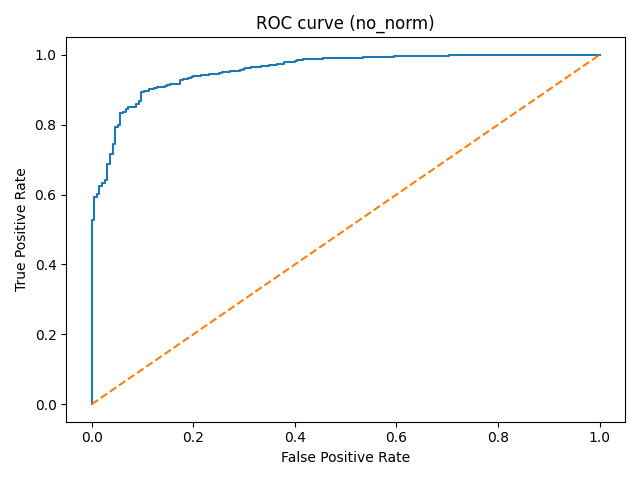
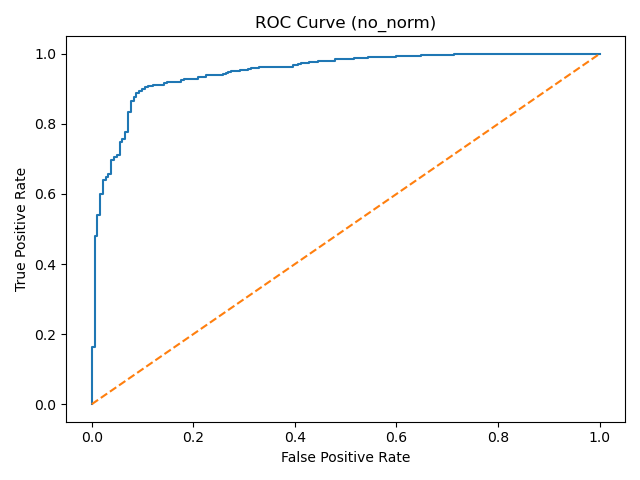
updates to graphs

diff --git a/draft.py b/draft.py
@@ -6,6 +6,9 @@ from sklearn.neural_network import MLPRegressor
 from sklearn.metrics import mean_squared_error, r2_score
 from sklearn.model_selection import train_test_split
 from sklearn.metrics import accuracy_score, roc_auc_score, roc_curve 
+from numpy import argmax
+from sklearn.preprocessing import LabelEncoder
+from sklearn.preprocessing import OneHotEncoder
 
 import numpy as np
 
@@ -13,7 +16,7 @@ import pandas as pd
 from pandas import DataFrame
 import matplotlib.pyplot as plt
 
-NUM_EXPERIMENTS = 30
+NUM_EXPERIMENTS = 20
 
 def scatter(df, feature, target):
     plt.figure()
@@ -42,7 +45,7 @@ def gen_plots(df):
     plt.savefig("heatmap.png")
     plt.close()
 
-    ringcorrs = df.drop(columns=["sex", "rings"]).corrwith(df["rings"])
+    ringcorrs = df.drop(columns=["rings"]).corrwith(df["rings"])
     max_corr = ringcorrs.idxmax()
     min_corr = ringcorrs.idxmin()
 
@@ -66,9 +69,9 @@ def scipy_linear_mod(x_train_real, x_test_real, y_train, y_test, transform, mode
     if transform == True:
         x_train = x_train_real.copy()
         x_test = x_test_real.copy()
-        transformer = MinMaxScaler().fit(x_train.iloc[:,1:])
-        x_train.iloc[:, 1:] = transformer.transform(x_train.iloc[:, 1:])
-        x_test.iloc[:, 1:] = transformer.transform(x_test.iloc[:, 1:])
+        transformer = MinMaxScaler().fit(x_train.iloc[:,3:])
+        x_train.iloc[:, 3:] = transformer.transform(x_train.iloc[:, 3:])
+        x_test.iloc[:, 3:] = transformer.transform(x_test.iloc[:, 3:])
     else:
         x_train = x_train_real
         x_test = x_test_real
@@ -136,7 +139,7 @@ def scipy_linear_mod(x_train_real, x_test_real, y_train, y_test, transform, mode
         plt.plot(fpr, tpr); plt.plot([0,1], [0,1], linestyle="--")
         plt.xlabel("False Positive Rate")
         plt.ylabel("True Positive Rate")
-        plt.title(f"ROC curve ({type_str})")
+        plt.title(f"ROC Curve ({type_str})")
         plt.tight_layout()
         plt.savefig(f"logistic roc {type_str}.png")
         plt.close()
@@ -147,9 +150,9 @@ def selected(x_train_real, x_test_real, y_train, y_test, transform, model, selec
     if transform == True:
         x_train = x_train_real.copy()
         x_test = x_test_real.copy()
-        transformer = MinMaxScaler().fit(x_train.iloc[:,1:])
-        x_train.iloc[:, 1:] = transformer.transform(x_train.iloc[:, 1:])
-        x_test.iloc[:, 1:] = transformer.transform(x_test.iloc[:, 1:])
+        transformer = MinMaxScaler().fit(x_train.iloc[:, 3:])
+        x_train.iloc[:, 3:] = transformer.transform(x_train.iloc[:, 3:])
+        x_test.iloc[:, 3:] = transformer.transform(x_test.iloc[:, 3:])
     else:
         x_train = x_train_real
         x_test = x_test_real
@@ -173,7 +176,7 @@ def selected(x_train_real, x_test_real, y_train, y_test, transform, model, selec
         plt.xlabel("True rings")
         plt.ylabel("Predicted rings")
         plt.title(f"Linear: y_true vs y_pred ({type_str}) {str(selected_feats)}")
-        plt.savefig(f"linreg_scatter_{type_str}_selected_Features.png")
+        plt.savefig(f"linreg_scatter_{type_str}_selected_features.png")
         plt.close()
 
         # residuals histogram
@@ -228,9 +231,9 @@ def neural(x_train_real, x_test_real, y_train, y_test, transform, model):
     if transform == True:
         x_train = x_train_real.copy()
         x_test = x_test_real.copy()
-        transformer = MinMaxScaler().fit(x_train.iloc[:,1:])
-        x_train.iloc[:, 1:] = transformer.transform(x_train.iloc[:, 1:])
-        x_test.iloc[:, 1:] = transformer.transform(x_test.iloc[:, 1:])
+        transformer = MinMaxScaler().fit(x_train.iloc[:, 3:])
+        x_train.iloc[:, 3:] = transformer.transform(x_train.iloc[:, 3:])
+        x_test.iloc[:, 3:] = transformer.transform(x_test.iloc[:, 3:])
     else:
         x_train = x_train_real
         x_test = x_test_real
@@ -238,7 +241,7 @@ def neural(x_train_real, x_test_real, y_train, y_test, transform, model):
     type_str = "norm" if transform else "no_norm"
 
     if model == 0:
-        mlp = MLPRegressor(hidden_layer_sizes=(10, 20), activation='identity', solver='sgd', learning_rate_init = 0.01, max_iter=1000, random_state = 1)
+        mlp = MLPRegressor(hidden_layer_sizes=(16, 8), activation='identity', solver='sgd', learning_rate_init = 0.01, max_iter=1000, random_state = 1)
         mlp.fit(x_train, y_train)
 
         y_pred = mlp.predict(x_test)
@@ -272,9 +275,9 @@ def neural(x_train_real, x_test_real, y_train, y_test, transform, model):
         plt.plot(fpr, tpr); plt.plot([0,1], [0,1], linestyle="--")
         plt.xlabel("False Positive Rate")
         plt.ylabel("True Positive Rate")
-        plt.title(f"ROC curve ({type_str}) {str(Neural Network Selected Features)}")
+        plt.title(f"ROC curve Neural Network ({type_str})")
         plt.tight_layout()
-        plt.savefig(f"logistic roc {type_str} Neural Network Selected Features.png")
+        plt.savefig(f"logistic roc Neural Network {type_str}.png")
         plt.close()
 
         return acc, auc, acc_train, auc_train
@@ -283,9 +286,9 @@ def neural_selected(x_train_real, x_test_real, y_train, y_test, transform, model
     if transform == True:
         x_train = x_train_real.copy()
         x_test = x_test_real.copy()
-        transformer = MinMaxScaler().fit(x_train.iloc[:,1:])
-        x_train.iloc[:, 1:] = transformer.transform(x_train.iloc[:, 1:])
-        x_test.iloc[:, 1:] = transformer.transform(x_test.iloc[:, 1:])
+        transformer = MinMaxScaler().fit(x_train.iloc[:, 3:])
+        x_train.iloc[:, 3:] = transformer.transform(x_train.iloc[:, 3:])
+        x_test.iloc[:, 3:] = transformer.transform(x_test.iloc[:, 3:])
     else:
         x_train = x_train_real
         x_test = x_test_real
@@ -293,7 +296,7 @@ def neural_selected(x_train_real, x_test_real, y_train, y_test, transform, model
     type_str = "norm" if transform else "no_norm"
 
     if model == 0:
-        mlp = MLPRegressor(hidden_layer_sizes=(10, 20), activation='identity', solver='sgd', learning_rate_init = 0.01, max_iter=1000, random_state = 1)
+        mlp = MLPRegressor(hidden_layer_sizes=(16, 8), activation='identity', solver='sgd', learning_rate_init = 0.01, max_iter=1000, random_state = 1)
         mlp.fit(x_train[selected_feats], y_train)
 
         y_pred = mlp.predict(x_test[selected_feats])
@@ -327,19 +330,33 @@ def neural_selected(x_train_real, x_test_real, y_train, y_test, transform, model
         plt.plot(fpr, tpr); plt.plot([0,1], [0,1], linestyle="--")
         plt.xlabel("False Positive Rate")
         plt.ylabel("True Positive Rate")
-        plt.title(f"ROC curve ({type_str}) {str(selected_feats)}")
+        plt.title(f"ROC curve Neural Network ({type_str}) {str(selected_feats)}")
         plt.tight_layout()
-        plt.savefig(f"logistic roc {type_str} selected features.png")
+        plt.savefig(f"logistic roc Neural Network {type_str} Selected Features.png")
         plt.close()
 
         return acc, auc, acc_train, auc_train
 
 def process_data(df):
-    df.iloc[:, 0] = df.iloc[:, 0].replace({"M": 0, "F": 1, "I": 2})
+    values = np.array(df.iloc[:, 0])
+    # integer encode
+    label_encoder = LabelEncoder()
+    integer_encoded = label_encoder.fit_transform(values)
+    print(integer_encoded)
+    # binary encode
+    onehot_encoder = OneHotEncoder(sparse_output=False)
+    integer_encoded = integer_encoded.reshape(len(integer_encoded), 1)
+    onehot_encoded = onehot_encoder.fit_transform(integer_encoded)
+    onehot_encoded = pd.DataFrame(onehot_encoded, columns = ["F", "I", "M"])
+    print(onehot_encoded)
+    df = df.drop(columns = "sex")
+    df = pd.concat([onehot_encoded, df], axis=1)
+
+    return df
 
 def main():
     df = pd.read_csv('abalone.data', header=None, names=["sex", "length", "diameter", "height", "whole_weight", "shucked_weight", "viscera_weight", "shell_weight", "rings"])
-    process_data(df)
+    df = process_data(df)
     selected_features = gen_plots(df)
     print(df)
 
@@ -373,16 +390,15 @@ def main():
     acc_nn_norm = np.zeros(NUM_EXPERIMENTS)
     auc_nn_norm = np.zeros(NUM_EXPERIMENTS)
 
-    rmse_sel = np.zeros(NUM_EXPERIMENTS)
-    rsquared_sel = np.zeros(NUM_EXPERIMENTS)
-    acc_sel = np.zeros(NUM_EXPERIMENTS)
-    auc_sel = np.zeros(NUM_EXPERIMENTS)
+    rmse_nn_sel = np.zeros(NUM_EXPERIMENTS)
+    rsquared_nn_sel = np.zeros(NUM_EXPERIMENTS)
+    acc_nn_sel = np.zeros(NUM_EXPERIMENTS)
+    auc_nn_sel = np.zeros(NUM_EXPERIMENTS)
 
     rmse_nn_sel_norm = np.zeros(NUM_EXPERIMENTS)
     rsquared_nn_sel_norm = np.zeros(NUM_EXPERIMENTS)
     acc_nn_sel_norm = np.zeros(NUM_EXPERIMENTS)
     auc_nn_sel_norm = np.zeros(NUM_EXPERIMENTS)
-
 
 
     rmse_tr = np.zeros(NUM_EXPERIMENTS)
@@ -399,11 +415,33 @@ def main():
     rsquared_sel_tr = np.zeros(NUM_EXPERIMENTS)
     acc_sel_tr = np.zeros(NUM_EXPERIMENTS)
     auc_sel_tr = np.zeros(NUM_EXPERIMENTS)
+    
+    rmse_sel_norm_tr = np.zeros(NUM_EXPERIMENTS)
+    rsquared_sel_norm_tr = np.zeros(NUM_EXPERIMENTS)
+    acc_sel_norm_tr = np.zeros(NUM_EXPERIMENTS)
+    auc_sel_norm_tr = np.zeros(NUM_EXPERIMENTS)
 
     rmse_nn_tr = np.zeros(NUM_EXPERIMENTS)
     rsquared_nn_tr = np.zeros(NUM_EXPERIMENTS)
+    acc_nn_tr = np.zeros(NUM_EXPERIMENTS)
+    auc_nn_tr = np.zeros(NUM_EXPERIMENTS)
 
-    
+    rmse_nn_norm_tr = np.zeros(NUM_EXPERIMENTS)
+    rsquared_nn_norm_tr = np.zeros(NUM_EXPERIMENTS)
+    acc_nn_norm_tr = np.zeros(NUM_EXPERIMENTS)
+    auc_nn_norm_tr = np.zeros(NUM_EXPERIMENTS)
+
+    rmse_nn_sel_tr = np.zeros(NUM_EXPERIMENTS)
+    rsquared_nn_sel_tr = np.zeros(NUM_EXPERIMENTS)
+    acc_nn_sel_tr = np.zeros(NUM_EXPERIMENTS)
+    auc_nn_sel_tr = np.zeros(NUM_EXPERIMENTS)
+
+    rmse_nn_sel_norm_tr = np.zeros(NUM_EXPERIMENTS)
+    rsquared_nn_sel_norm_tr = np.zeros(NUM_EXPERIMENTS)
+    acc_nn_sel_norm_tr = np.zeros(NUM_EXPERIMENTS)
+    auc_nn_sel_norm_tr = np.zeros(NUM_EXPERIMENTS)
+
+
     data_inputx = df.iloc[:, 0:-1]
     data_inputy = df.iloc[:, -1]
     print(data_inputx)
@@ -442,68 +480,97 @@ def main():
         rmse_nn_norm[i], rsquared_nn_norm[i], acc_nn_norm[i], auc_nn_norm[i] = rmse_te, r2_te, acc_te, auc_te
         rmse_nn_norm_tr[i], rsquared_nn_norm_tr[i], acc_nn_norm_tr[i], auc_nn_norm_tr[i] = rmse_tr_i, r2_tr_i, acc_tr_i, auc_tr_i
 
-        rmse_te, r2_te, rmse_tr_i, r2_tr_i = selected(x_train, x_test, y_train, y_test, False, 0, selected_features)
-        acc_te, auc_te, acc_tr_i, auc_tr_i = selected(x_train, x_test, y_train, y_test, False, 1, selected_features)
-        rmse_nn_sel[i], rsquared_nn_sel[i], acc_sel[i], auc_sel[i] = rmse_te, r2_te, acc_te, auc_te
+        rmse_te, r2_te, rmse_tr_i, r2_tr_i = neural_selected(x_train, x_test, y_train, y_test, False, 0, selected_features)
+        acc_te, auc_te, acc_tr_i, auc_tr_i = neural_selected(x_train, x_test, y_train, y_test, False, 1, selected_features)
+        rmse_nn_sel[i], rsquared_nn_sel[i], acc_nn_sel[i], auc_nn_sel[i] = rmse_te, r2_te, acc_te, auc_te
         rmse_nn_sel_tr[i], rsquared_nn_sel_tr[i], acc_nn_sel_tr[i], auc_nn_sel_tr[i] = rmse_tr_i, r2_tr_i, acc_tr_i, auc_tr_i
 
         rmse_te, r2_te, rmse_tr_i, r2_tr_i = neural_selected(x_train, x_test, y_train, y_test, True, 0, selected_features)
-        acc_te, auc_te, acc_tr_i, auc_tr_i = selected(x_train, x_test, y_train, y_test, True, 1, selected_features)
+        acc_te, auc_te, acc_tr_i, auc_tr_i = neural_selected(x_train, x_test, y_train, y_test, True, 1, selected_features)
         rmse_nn_sel_norm[i], rsquared_nn_sel_norm[i], acc_nn_sel_norm[i], auc_nn_sel_norm[i] = rmse_te, r2_te, acc_te, auc_te
         rmse_nn_sel_norm_tr[i], rsquared_nn_sel_norm_tr[i], acc_nn_sel_norm_tr[i], auc_nn_sel_norm_tr[i] = rmse_tr_i, r2_tr_i, acc_tr_i, auc_tr_i
 
+    print(f"RMSE no norm Mean: {rmse.mean():.3f}, with norm: {rmse_norm.mean():.3f}")
+    print(f"RMSE no norm SD: {rmse.std():.3f}, with norm: {rmse_norm.std():.3f}")
+    print(f"Rsquared no norm Mean: {rsquared.mean():.3f}, with norm: {rsquared_norm.mean():.3f}")
+    print(f"Rsquared no norm SD: {rsquared.std():.3f}, with norm: {rsquared_norm.std():.3f}")
 
-
-    print(f"RMSE no norm Mean: {rmse.mean()}, with norm: {rmse_norm.mean()}")
-    print(f"RMSE no norm SD: {rmse.std()}, with norm: {rmse_norm.std()}")
-    print(f"Rsquared no norm Mean: {rsquared.mean()}, with norm: {rsquared_norm.mean()}")
-    print(f"Rsquared no norm SD: {rsquared.std()}, with norm: {rsquared_norm.std()}")
-
-    print(f"Accuracy no norm Mean: {acc.mean()}, with norm: {acc_norm.mean()}")
-    print(f"Accuracy no norm SD: {acc.std()} with norm: {acc_norm.std()}")
-    print(f"AUC no norm Mean: {auc.mean()}, with norm: {auc_norm.mean()}")
-    print(f"AUC no norm SD: {auc.std()} with norm: {auc_norm.std()}")
+    print(f"Accuracy no norm Mean: {acc.mean():.3f}, with norm: {acc_norm.mean():.3f}")
+    print(f"Accuracy no norm SD: {acc.std():.3f} with norm: {acc_norm.std():.3f}")
+    print(f"AUC no norm Mean: {auc.mean():.3f}, with norm: {auc_norm.mean():.3f}")
+    print(f"AUC no norm SD: {auc.std():.3f} with norm: {auc_norm.std():.3f}")
     
-    print(f"RMSE of Selected Features no norm Mean: {rmse_sel.mean()}, with norm: {rmse_sel_norm.mean()}")
-    print(f"RMSE of Selected Features no norm SD: {rmse_sel.std()}, with norm: {rmse_sel_norm.std()}")
-    print(f"Rsquared of Selected Features no norm Mean: {rsquared_sel.mean()}, with norm: {rsquared_sel_norm.mean()}")
-    print(f"Rsquared of Selected Features no norm SD: {rsquared_sel.std()}, with norm: {rsquared_sel_norm.std()}")
+    print(f"RMSE of Selected Features no norm Mean: {rmse_sel.mean():.3f}, with norm: {rmse_sel_norm.mean():.3f}")
+    print(f"RMSE of Selected Features no norm SD: {rmse_sel.std():.3f}, with norm: {rmse_sel_norm.std():.3f}")
+    print(f"Rsquared of Selected Features no norm Mean: {rsquared_sel.mean():.3f}, with norm: {rsquared_sel_norm.mean():.3f}")
+    print(f"Rsquared of Selected Features no norm SD: {rsquared_sel.std():.3f}, with norm: {rsquared_sel_norm.std():.3f}")
 
-    print(f"Accuracy of Selected Features Mean: {acc_sel.mean()}")
-    print(f"Accuracy of Selected Features SD: {acc_sel.std()}")
-    print(f"AUC of Selected Features Mean: {auc_sel.mean()}")
-    print(f"AUC of Selected Features SD: {auc_sel.std()}")
+    print(f"Accuracy of Selected Features no norm Mean: {acc_sel.mean():.3f}, with norm: {acc_sel_norm.mean():.3f}")
+    print(f"Accuracy of Selected Features no norm SD: {acc_sel.std():.3f}, with norm: {acc_sel_norm.std():.3f}")
+    print(f"AUC of Selected Features no norm Mean: {auc_sel.mean():.3f}, with norm: {auc_sel_norm.mean():.3f}")
+    print(f"AUC of Selected Features no norm SD: {auc_sel.std():.3f}, with norm: {auc_sel_norm.std():.3f}")
     
-    print(f"RMSE of Neural Network Mean: {rmse_nn.mean()}")
-    print(f"RMSE of Neural Network SD: {rmse_nn.std()}")
-    print(f"Rsquared of Neural Network Mean: {rsquared_nn.mean()}")
-    print(f"Rsquared of Neural Network SD: {rsquared_nn.std()}")
+    print(f"RMSE of Neural Network no norm Mean: {rmse_nn.mean():.3f}, with norm: {rmse_nn_norm.mean():.3f}")
+    print(f"RMSE of Neural Network no norm SD: {rmse_nn.std():.3f}, with norm: {rmse_nn_norm.std():.3f}")
+    print(f"Rsquared of Neural Network no norm Mean: {rsquared_nn.mean():.3f}, with norm: {rsquared_nn_norm.mean():.3f}")
+    print(f"Rsquared of Neural Network no norm SD: {rsquared_nn.std():.3f}, with norm: {rsquared_nn_norm.std():.3f}")
+ 
+    print(f"Accuracy of Neural Network no norm Mean: {acc_nn.mean():.3f}, with norm: {acc_nn_norm.mean():.3f}")
+    print(f"Accuracy of Neural Network no norm SD: {acc_nn.std():.3f}, with norm: {acc_nn_norm.std():.3f}")
+    print(f"AUC of Neural Network no norm Mean: {auc_nn.mean():.3f}, with norm: {auc_nn_norm.mean():.3f}")
+    print(f"AUC of Neural Network no norm SD: {auc_nn.std():.3f}, with norm: {auc_nn_norm.std():.3f}")
+ 
+    print(f"RMSE of Neural Network Selected Features no norm Mean: {rmse_nn_sel.mean():.3f}, with norm: {rmse_nn_sel_norm.mean():.3f}")
+    print(f"RMSE of Neural Network Selected Features no norm SD: {rmse_nn_sel.std():.3f}, with norm: {rmse_nn_sel_norm.std():.3f}")
+    print(f"Rsquared of Neural Selected Features Network no norm Mean: {rsquared_nn_sel.mean():.3f}, with norm: {rsquared_nn_sel_norm.mean():.3f}")
+    print(f"Rsquared of Neural Network Selected Features no norm SD: {rsquared_nn_sel.std():.3f}, with norm: {rsquared_nn_sel_norm.std():.3f}")
 
-    print(f"TRAIN RMSE no norm Mean: {rmse_tr.mean()}, with norm: {rmse_norm_tr.mean()}")
-    print(f"TRAIN RMSE no norm SD: {rmse_tr.std()}, with norm: {rmse_norm_tr.std()}")
-    print(f"TRAIN Rsquared no norm Mean: {rsquared_tr.mean()}, with norm: {rsquared_norm_tr.mean()}")
-    print(f"TRAIN Rsquared no norm SD: {rsquared_tr.std()}, with norm: {rsquared_norm_tr.std()}")
+    print(f"Accuracy of Neural Network Selected Features no norm Mean: {acc_nn_sel.mean():.3f}, with norm: {acc_nn_sel_norm.mean():.3f}")
+    print(f"Accuracy of Neural Network Selected Features no norm SD: {acc_nn_sel.std():.3f}, with norm: {acc_nn_sel_norm.std():.3f}")
+    print(f"AUC of Neural Network Selected Features no norm Mean: {auc_nn_sel.mean():.3f}, with norm: {auc_nn_sel_norm.mean():.3f}")
+    print(f"AUC of Neural Network Selected Features no norm SD: {auc_nn_sel.std():.3f}, with norm: {auc_nn_sel_norm.std():.3f}")
+ 
 
-    print(f"TRAIN Accuracy no norm Mean: {acc_tr.mean()}, with norm: {acc_norm_tr.mean()}")
-    print(f"TRAIN Accuracy no norm SD: {acc_tr.std()} with norm: {acc_norm_tr.std()}")
-    print(f"TRAIN AUC no norm Mean: {auc_tr.mean()}, with norm: {auc_norm_tr.mean()}")
-    print(f"TRAIN AUC no norm SD: {auc_tr.std()} with norm: {auc_norm_tr.std()}")
+    print(f"TRAIN RMSE no norm Mean: {rmse_tr.mean():.3f}, with norm: {rmse_norm_tr.mean():.3f}")
+    print(f"TRAIN RMSE no norm SD: {rmse_tr.std():.3f}, with norm: {rmse_norm_tr.std():.3f}")
+    print(f"TRAIN Rsquared no norm Mean: {rsquared_tr.mean():.3f}, with norm: {rsquared_norm_tr.mean():.3f}")
+    print(f"TRAIN Rsquared no norm SD: {rsquared_tr.std():.3f}, with norm: {rsquared_norm_tr.std():.3f}")
 
-    print(f"TRAIN RMSE of Selected Features Mean: {rmse_sel_tr.mean()}")
-    print(f"TRAIN RMSE of Selected Features SD: {rmse_sel_tr.std()}")
-    print(f"TRAIN Rsquared of Selected Features Mean: {rsquared_sel_tr.mean()}")
-    print(f"TRAIN Rsquared of Selected Features SD: {rsquared_sel_tr.std()}")
+    print(f"TRAIN Accuracy no norm Mean: {acc_tr.mean():.3f}, with norm: {acc_norm_tr.mean():.3f}")
+    print(f"TRAIN Accuracy no norm SD: {acc_tr.std():.3f} with norm: {acc_norm_tr.std():.3f}")
+    print(f"TRAIN AUC no norm Mean: {auc_tr.mean():.3f}, with norm: {auc_norm_tr.mean():.3f}")
+    print(f"TRAIN AUC no norm SD: {auc_tr.std():.3f} with norm: {auc_norm_tr.std():.3f}")
 
-    print(f"TRAIN Accuracy of Selected Features Mean: {acc_sel_tr.mean()}")
-    print(f"TRAIN Accuracy of Selected Features SD: {acc_sel_tr.std()}")
-    print(f"TRAIN AUC of Selected Features Mean: {auc_sel_tr.mean()}")
-    print(f"TRAIN AUC of Selected Features SD: {auc_sel_tr.std()}")
+    print(f"TRAIN RMSE of Selected Features no norm Mean: {rmse_sel_tr.mean():.3f}, with norm: {rmse_sel_norm_tr.mean():.3f}")
+    print(f"TRAIN RMSE of Selected Features no norm SD: {rmse_sel_tr.std():.3f}, with norm: {rmse_sel_norm_tr.std():.3f}")
+    print(f"TRAIN Rsquared of Selected Features no norm Mean: {rsquared_sel_tr.mean():.3f}, with norm: {rsquared_sel_norm_tr.mean():.3f}")
+    print(f"TRAIN Rsquared of Selected Features no norm SD: {rsquared_sel_tr.std():.3f}, with norm: {rsquared_sel_norm_tr.std():.3f}")
 
-    print(f"TRAIN RMSE of Neural Network Mean: {rmse_nn_tr.mean()}")
-    print(f"TRAIN RMSE of Neural Network SD: {rmse_nn_tr.std()}")
-    print(f"TRAIN Rsquared of Neural Network Mean: {rsquared_nn_tr.mean()}")
-    print(f"TRAIN Rsquared of Neural Network SD: {rsquared_nn_tr.std()}")
+    print(f"TRAIN Accuracy of Selected Features no norm Mean: {acc_sel_tr.mean():.3f}, with norm: {acc_sel_norm_tr.mean():.3f}")
+    print(f"TRAIN Accuracy of Selected Features no norm SD: {acc_sel_tr.std():.3f}, with norm: {acc_sel_norm_tr.std():.3f}")
+    print(f"TRAIN AUC of Selected Features no norm Mean: {auc_sel_tr.mean():.3f}, with norm: {auc_sel_norm_tr.mean():.3f}")
+    print(f"TRAIN AUC of Selected Features no norm SD: {auc_sel_tr.std():.3f}, with norm: {auc_sel_norm_tr.std():.3f}")
 
+    print(f"TRAIN RMSE of Neural Network Mean: {rmse_nn_tr.mean():.3f}, with norm: {rmse_nn_norm_tr.mean():.3f}")
+    print(f"TRAIN RMSE of Neural Network SD: {rmse_nn_tr.std():.3f}, with norm: {rmse_nn_norm_tr.std():.3f}")
+    print(f"TRAIN Rsquared of Neural Network Mean: {rsquared_nn_tr.mean():.3f}, with norm: {rsquared_nn_norm_tr.mean():.3f}")
+    print(f"TRAIN Rsquared of Neural Network SD: {rsquared_nn_tr.std():.3f}, with norm: {rsquared_nn_norm_tr.std():.3f}")
+
+    print(f"TRAIN Accuracy of Neural Network no norm Mean: {acc_nn_tr.mean():.3f}, with norm: {acc_nn_norm_tr.mean():.3f}")
+    print(f"TRAIN Accuracy of Neural Network no norm SD: {acc_nn_tr.std():.3f}, with norm: {acc_nn_norm_tr.std():.3f}")
+    print(f"TRAIN AUC of Neural Network no norm Mean: {auc_nn_tr.mean():.3f}, with norm: {auc_nn_norm_tr.mean():.3f}")
+    print(f"TRAIN AUC of Neural Network no norm SD: {auc_nn_tr.std():.3f}, with norm: {auc_nn_norm_tr.std():.3f}")
+ 
+    print(f"TRAIN RMSE of Neural Network Selected Features no norm Mean: {rmse_nn_sel_tr.mean():.3f}, with norm: {rmse_nn_sel_norm_tr.mean():.3f}")
+    print(f"TRAIN RMSE of Neural Network Selected Features no norm SD: {rmse_nn_sel_tr.std():.3f}, with norm: {rmse_nn_sel_norm_tr.std():.3f}")
+    print(f"TRAIN Rsquared of Neural Selected Features Network no norm Mean: {rsquared_nn_sel_tr.mean():.3f}, with norm: {rsquared_nn_sel_norm_tr.mean():.3f}")
+    print(f"TRAIN Rsquared of Neural Network Selected Features no norm SD: {rsquared_nn_sel_tr.std():.3f}, with norm: {rsquared_nn_sel_norm_tr.std():.3f}")
+   
+    print(f"TRAIN Accuracy of Neural Network Selected Features no norm Mean: {acc_nn_sel_tr.mean():.3f}, with norm: {acc_nn_sel_norm_tr.mean():.3f}")
+    print(f"TRAIN Accuracy of Neural Network Selected Features no norm SD: {acc_nn_sel_tr.std():.3f}, with norm: {acc_nn_sel_norm_tr.std():.3f}")
+    print(f"TRAIN AUC of Neural Network Selected Features no norm Mean: {auc_nn_sel_tr.mean():.3f}, with norm: {auc_nn_sel_norm_tr.mean():.3f}")
+    print(f"TRAIN AUC of Neural Network Selected Features no norm SD: {auc_nn_sel_tr.std():.3f}, with norm: {auc_nn_sel_norm_tr.std():.3f}")
+ 
 
 if __name__ =='__main__':
     main() 
